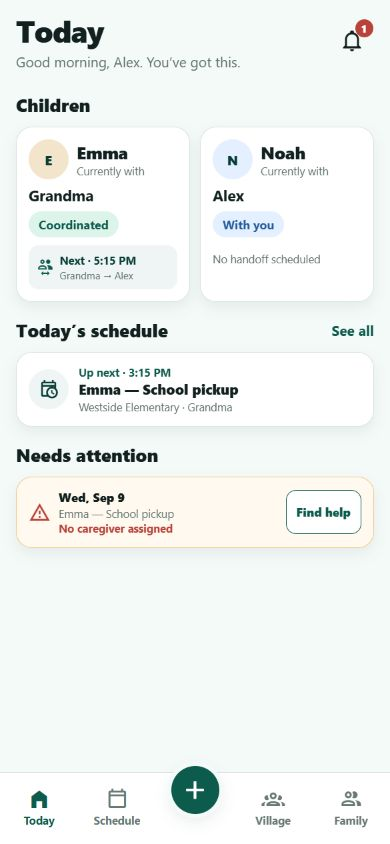
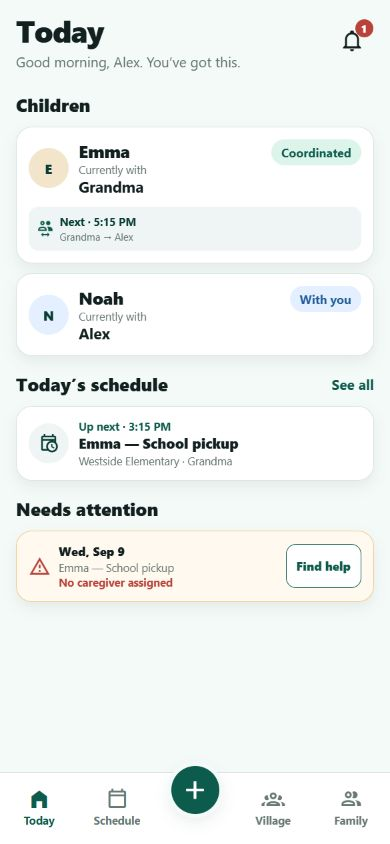
refactor: stack Today child cards

diff --git a/app/(tabs)/index.tsx b/app/(tabs)/index.tsx
@@ -111,14 +111,8 @@ export default function TodayScreen() {
             )?.displayName;
 
             return (
-              <Card
-                key={child.id}
-                style={[
-                  styles.childCard,
-                  activeChildren.length === 1 && styles.singleChildCard,
-                ]}
-              >
-                <View style={styles.childIdentity}>
+              <Card key={child.id} style={styles.childCard}>
+                <View style={styles.childSummary}>
                   <Avatar
                     name={child.firstName}
                     uri={child.avatarUrl}
@@ -130,23 +124,23 @@ export default function TodayScreen() {
                       {child.firstName}
                     </Text>
                     <Text style={styles.currentLabel}>Currently with</Text>
+                    <Text style={styles.caregiver} numberOfLines={1}>
+                      {caregiver?.displayName ?? "Not acknowledged"}
+                    </Text>
                   </View>
+                  <Pill
+                    label={
+                      caregiver?.id === data.currentMemberId
+                        ? "With you"
+                        : caregiver
+                          ? "Coordinated"
+                          : "No receipt"
+                    }
+                    tone={
+                      caregiver?.id === data.currentMemberId ? "blue" : "green"
+                    }
+                  />
                 </View>
-                <Text style={styles.caregiver} numberOfLines={1}>
-                  {caregiver?.displayName ?? "Not acknowledged"}
-                </Text>
-                <Pill
-                  label={
-                    caregiver?.id === data.currentMemberId
-                      ? "With you"
-                      : caregiver
-                        ? "Coordinated"
-                        : "No receipt"
-                  }
-                  tone={
-                    caregiver?.id === data.currentMemberId ? "blue" : "green"
-                  }
-                />
                 {handoff ? (
                   <Pressable
                     accessibilityRole="button"
@@ -178,9 +172,7 @@ export default function TodayScreen() {
                       </Text>
                     </View>
                   </Pressable>
-                ) : (
-                  <Text style={styles.noHandoff}>No handoff scheduled</Text>
-                )}
+                ) : null}
               </Card>
             );
           })}
@@ -402,16 +394,9 @@ const styles = StyleSheet.create({
     backgroundColor: colors.danger,
   },
   badgeText: { color: "#fff", fontSize: 10, fontWeight: "800" },
-  childrenGrid: { flexDirection: "row", flexWrap: "wrap", gap: spacing.sm },
-  childCard: {
-    flexGrow: 1,
-    flexBasis: "47%",
-    minWidth: 150,
-    padding: 12,
-    gap: 6,
-  },
-  singleChildCard: { flexBasis: "100%" },
-  childIdentity: { flexDirection: "row", alignItems: "center", gap: 8 },
+  childrenGrid: { gap: spacing.sm },
+  childCard: { padding: 12, gap: 8 },
+  childSummary: { flexDirection: "row", alignItems: "center", gap: 10 },
   childName: { color: colors.ink, fontSize: 17, fontWeight: "800" },
   currentLabel: { color: colors.muted, fontSize: 11 },
   caregiver: { color: colors.ink, fontSize: 15, fontWeight: "700" },
@@ -431,7 +416,6 @@ const styles = StyleSheet.create({
     fontWeight: "700",
   },
   nextHandoffPeople: { color: colors.muted, fontSize: 10, marginTop: 1 },
-  noHandoff: { color: colors.muted, fontSize: 11, marginTop: 8 },
   scheduleCard: {
     minHeight: 72,
     padding: 12,
